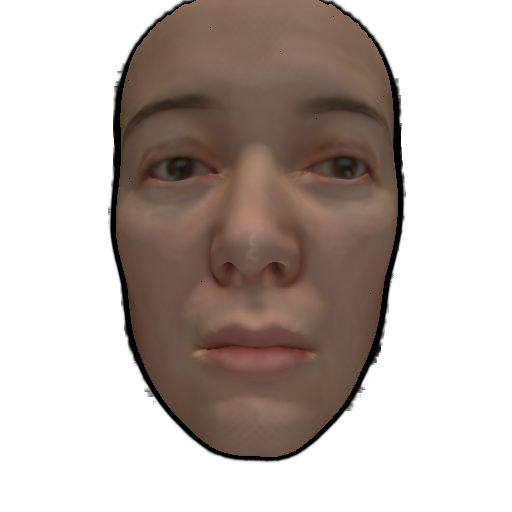
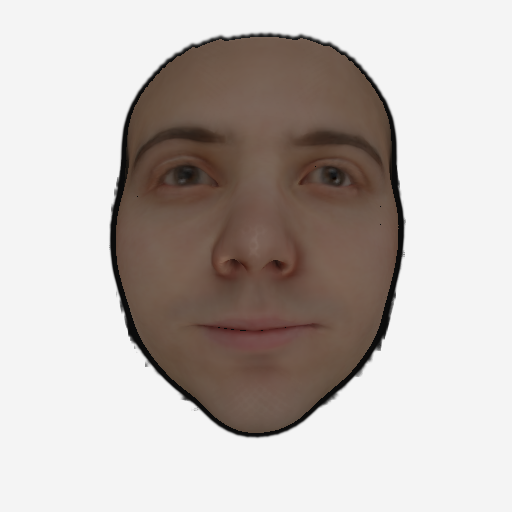
Model implemented!

Changed region(s): [[0.1875, 0.0, 0.8125, 0.9062], [0.5625, 0.4688, 0.5938, 0.5], [0.5312, 0.5, 0.5625, 0.5312]]

diff --git a/model.py b/model.py
@@ -1,0 +1,131 @@
+# import torch
+import torch.nn as nn
+import torch.nn.functional as f
+from torchvision import models
+from BFM import BFM_torch
+import math
+
+class BaseModel(nn.Module):
+    """Get the base network, which is modified from ResNet50"""
+    def __init__(self, IF_PRETRAINED=False):
+        super(BaseModel, self).__init__()
+        resnet50 = models.resnet50(pretrained=IF_PRETRAINED)
+        resnet50.fc = nn.Linear(2048, 258)
+
+    def forward(self, images):
+        return self.resnet50(images)
+
+class BaseDecoder(nn.Module):
+    """Decode from the learned parameters to the 3D face model"""
+    def __init__(self):
+        super(BaseDecoder, self).__init__()
+        self.BFM_model = BFM_torch()
+
+    def split(self, params):
+        id_coef = params[:,:80]
+        ex_coef = params[:,80:144]
+        tex_coef = params[:,144:224]
+        angles = params[:,224:227]
+        gamma  = params[:,227:254]
+        translation = params[:,254:257]
+        scale = params[:,257:]
+
+        return id_coef, ex_coef, tex_coef, angles, gamma, translation, scale
+
+    def compute_norm(vertices):
+        """
+        Compute the norm of the vertices
+        Input:
+            vertices[bs, 35709, 3]
+        """
+        bs = vertices.shape[0]
+        face_id = self.BFM_model.tri-1
+        point_id = self.BFM_model.point_buf-1
+        # [bs, 70789, 3]
+        face_id = face_id[None,:,:].expand(bs,-1,-1)
+        # [bs, 35709, 8]
+        point_id = point_id[None,:,:].expand(bs,-1,-1)
+        # [bs, 70789, 3] Gather the vertex location
+        v1 = torch.gather(vertices, dim=1,index=face_id[:,:,:1].expand(-1,-1,3).long())
+        v2 = torch.gather(vertices, dim=1,index=face_id[:,:,1:2].expand(-1,-1,3).long())
+        v3 = torch.gather(vertices, dim=1,index=face_id[:,:,2:].expand(-1,-1,3).long())
+        # Compute the edge
+        e1 = v1-v2
+        e2 = v2-v3
+        # Normal [bs, 70789, 3]
+        norm = torch.cross(e1, e2)
+        # Normal appended with zero vector [bs, 70790, 3]
+        norm = torch.cat([norm, torch.zeros(bs, 1, 3)], dim=1)
+        # [bs, 35709*8, 3]
+        point_id = point_id.reshape(bs,-1)[:,:,None].expand(-1,-1,3)
+        # [bs, 35709*8, 3]
+        v_norm = torch.gather(norm, dim=1, index=point_id.long())
+        v_norm = v_norm.reshape(bs, 35709, 8, 3)
+        # [bs, 35709, 3]
+        v_norm = f.normalize(torch.sum(v_norm, dim=2), dim=-1)
+        return v_norm
+
+
+    def lighting(self, norm, albedo, gamma):
+        """
+        Add lighting to the albedo surface
+        gamma: [bs, 27]
+        norm: [bs, num_vertex, 3]
+        albedo: [bs, num_vertex, 3]
+        """
+        assert norm.shape[0] == albedo.shape[0]
+        assert norm.shape[0] == gamma.shape[0]
+        bs = gamma.shape[0]
+        num_vertex = norm.shape[1]
+
+        init_light = torch.zeros(9)
+        init_light[0] = 0.8
+        gamma = gamma.reshape(bs,3,9)+init_light
+
+        a0 = torch.tensor(math.pi)
+        a1 = torch.tensor(2*math.pi/math.sqrt(3.0))
+        a2 = torch.tensor(2*math.pi/math.sqrt(8.0))
+        c0 = torch.tensor(1/math.sqrt(4*math.pi))
+        c1 = torch.tensor(math.sqrt(3.0)/math.sqrt(4*math.pi))
+        c2 = torch.tensor(3*math.sqrt(5.0)/math.sqrt(12*math.pi))
+
+        Y0 = a0[None, None, :].expand(bs, num_vertex, 1)
+        Y1 = -a1*c1*norm[:,:,1:2]
+        Y2 = a1*c1*norm[:,:,2:3]
+        Y3 = -a1*c1*norm[:,:,0:1]
+        Y4 = a2*c2*norm[:,:,0:1]*norm[:,:,1:2]
+        Y5 = -a2*c2*norm[:,:,1]*norm[:,:,2:3]
+        Y6 = a2*c2*0.5/torch.sqrt(3.0)*(3*torch.square(norm[:,:,2:3])-1)
+        Y7 = -a2*c2*norm[:,:,0:1]*norm[:,:,2:3]
+        Y8 = a2*c2*0.5*(torch.square(norm[:,:,0:1])-torch.square(norm[:,:,1:2]))
+        # [bs, num_vertice, 9]
+        Y = torch.cat([Y0,Y1,Y2,Y3,Y4,Y5,Y6,Y7,Y8],dim=2)
+
+        light_color = torch.bmm(Y, gamma.permute(0,2,1))
+        vertex_color = light_color*albedo
+        return vertex_color
+
+
+
+    def forward(self, params):
+        bs = params.shape[0]
+        id_coef, ex_coef, tex_coef, angles, gamma, tranlation, scale = self.split(params)
+        face_shape = self.BFM_model.get_shape(id_coef, ex_coef)
+        face_albedo = self.BFM_model.get_texture(tex_coef)
+
+        face_shape = face_shape.reshape(bs, -1, 3)
+        # Recenter the face mesh
+        face_shape = face_shape - torch.mean(face_shape, dim=1, keepdim=True)        
+        face_albedo = face_albedo.reshape(bs, -1, 3)/255.
+
+        # face model scaling, rotation and translation
+        rotation_matrix = self.BFM_model.compute_rotation_matrix(angles)
+        face_shape = torch.bmm(face_shape, rotation_matrix)
+        # Compute the normal
+        normal = compute_norm(face_shape)
+        face_shape = scale[:,:,None]*face_shape
+        face_shape = face_shape+tranlation[:,None,:]
+
+        face_albedo = self.lighting(normal, face_albedo, gamma)
+
+        return face_shape, face_albedo

diff --git a/draft.py b/draft.py
@@ -10,14 +10,12 @@ if not os.path.isfile("./BFM/BFM_model_front.mat"):
     utils.transferBFM09()
 
 # bfm_face_model = BFM.BFM()
-
+# print (bfm_face_model.point_buf[-1,-1])
 # mesh = trimesh.Trimesh(vertices=bfm_face_model.meanshape.reshape(-1,3), 
 #                        faces=bfm_face_model.tri.reshape(-1,3)-1, 
 #                        vertex_colors=bfm_face_model.meantex.reshape(-1,3))
 
 # mesh.show()
-
-
 
 # def morph_face(bfm_model, id_param=None, ex_param=None, tex_param=None):
 #     if id_param is None:
@@ -46,37 +44,59 @@ if not os.path.isfile("./BFM/BFM_model_front.mat"):
 
 # print (bfm_face_model.tri.shape)
 
-# import soft_renderer as sr
+import soft_renderer as sr
 
-# camera_distance = 2.732
-# elevation = 0
-# azimuth = 180
+camera_distance = 2.732
+elevation = 0
+azimuth = 180
 
-# renderer = sr.SoftRenderer(image_size=512, sigma_val=1e-4, aggr_func_rgb='hard', 
-#                                camera_mode='look_at', viewing_angle=30)
+renderer = sr.SoftRenderer(image_size=512, sigma_val=1e-4, aggr_func_rgb='hard', 
+                            camera_mode='look_at', viewing_angle=30,
+                            perspective=True, light_intensity_directionals=0)
 
-# renderer.transform.set_eyes_from_angles(camera_distance, elevation, azimuth)
+renderer.transform.set_eyes_from_angles(camera_distance, elevation, azimuth)
 
-# bs = 10
+bs = 10
 
-# face_model = BFM.BFM_torch()
-# shape = face_model.get_shape(torch.randn(bs,80), torch.zeros(bs,64))
-# albedo = face_model.get_texture(torch.randn(bs,80))
+face_model = BFM.BFM_torch()
+shape = face_model.get_shape(torch.randn(bs,80), torch.zeros(bs,64))
+albedo = face_model.get_texture(torch.randn(bs,80))
 
-# shape = shape.reshape(bs,-1,3)
-# albedo = albedo.reshape(bs,-1,3)/255.
+shape = shape.reshape(bs,-1,3)
+albedo = albedo.reshape(bs,-1,3)/255.
+
+face_id = face_model.tri-1
+face_id = face_id[None,:,:].expand(bs,-1,-1)
+
+print (shape[:, face_id.long(), :].shape)
+
+# v1 = torch.gather(shape, dim=1, index=face_id[:,:,:1].expand(-1,-1,3).long())
+
+# bs_id = 5
+# face_idx = 10
+# print (shape[bs_id, face_id[bs_id,face_idx,0].long(),:])
+# print (v1[bs_id,face_idx,:])
+
+# print (face_model.keypoints.shape)
+
 
 # rot_param = torch.randn(bs,3)
 # rot_mat = face_model.compute_rotation_matrix(rot_param)
 # print (shape.shape)
 # # shape = torch.bmm(shape, rot_mat)
 
-# # mesh = trimesh.Trimesh(vertices=shape[0].numpy(), 
-# #                        faces=face_model.tri.reshape(-1,3)-1, 
-# #                        vertex_colors=np.clip(albedo[0].numpy(),0,1))
-# # mesh.show()
+# mesh = trimesh.Trimesh(vertices=shape[0].numpy(), 
+#                        faces=face_model.tri.reshape(-1,3)-1, 
+#                        vertex_colors=np.clip(albedo[0].numpy(),0,1))
+# mesh.show()
 
-# image = renderer(shape[0].cuda(), (face_model.tri.reshape(-1,3)-1).cuda(), (albedo[0]).cuda(), texture_type="vertex")
+# mesh, image = renderer(shape[0].cuda(), (face_model.tri.reshape(-1,3)-1).cuda(), (albedo[0]).cuda(), texture_type="vertex")
+# lmk = mesh.vertices[:, face_model.keypoints, :].cpu().numpy()
+# print (lmk.shape)
+# lmk[:,:,:2] = (lmk[:,:,:2]+1)*512/2
+# lmk[:,:,1] = 512-lmk[:,:,1]
+# print (lmk)
+
 # io.imsave("./test_ori.png",image[0].permute(1,2,0).cpu().numpy())
 
 
@@ -96,10 +116,10 @@ if not os.path.isfile("./BFM/BFM_model_front.mat"):
 
 # io.imsave("./test.png",image[0].permute(1,2,0).cpu().numpy())
 
-from dataset import CACDDataset
-import matplotlib.pyplot as plt
-TrainSet = CACDDataset('./data/CACD2000_test.hdf5')
-img, lmk = TrainSet[1]
-plt.imshow(img)
-plt.scatter(lmk[:,0], lmk[:, 1])
-plt.show()
+# from dataset import CACDDataset
+# import matplotlib.pyplot as plt
+# TrainSet = CACDDataset('./data/CACD2000_test.hdf5')
+# img, lmk = TrainSet[1]
+# plt.imshow(image[0].permute(1,2,0).cpu().numpy())
+# plt.scatter(lmk[0,:,0], lmk[0,:,1])
+# plt.show()

diff --git a/BFM.py b/BFM.py
@@ -41,8 +41,11 @@ class BFM_torch(nn.Module):
 		# [107121, 80]
 		self.register_buffer('texBase', torch.tensor(model['texBase'], dtype=torch.float32))
 		# [70789, 3]
-		self.register_buffer('tri', torch.tensor(model['tri'], dtype=torch.float32))
-		
+		self.register_buffer('tri', torch.tensor(model['tri'], dtype=torch.int32))
+		# [35709, 8] Max is 70789;
+		self.register_buffer('point_buf', torch.tensor(model['point_buf'], dtype=torch.int32))
+		# [68]
+		self.register_buffer('keypoints', torch.tensor(np.squeeze(model['keypoints']).astype(np.int32) - 1, dtype=torch.int32))
 
 	def get_shape(self, id_param, ex_param):
 		"""

diff --git a/train.py b/train.py
@@ -1,0 +1,5 @@
+import torch
+import torch.nn as nn
+
+from dataset import CACDDataset
+
